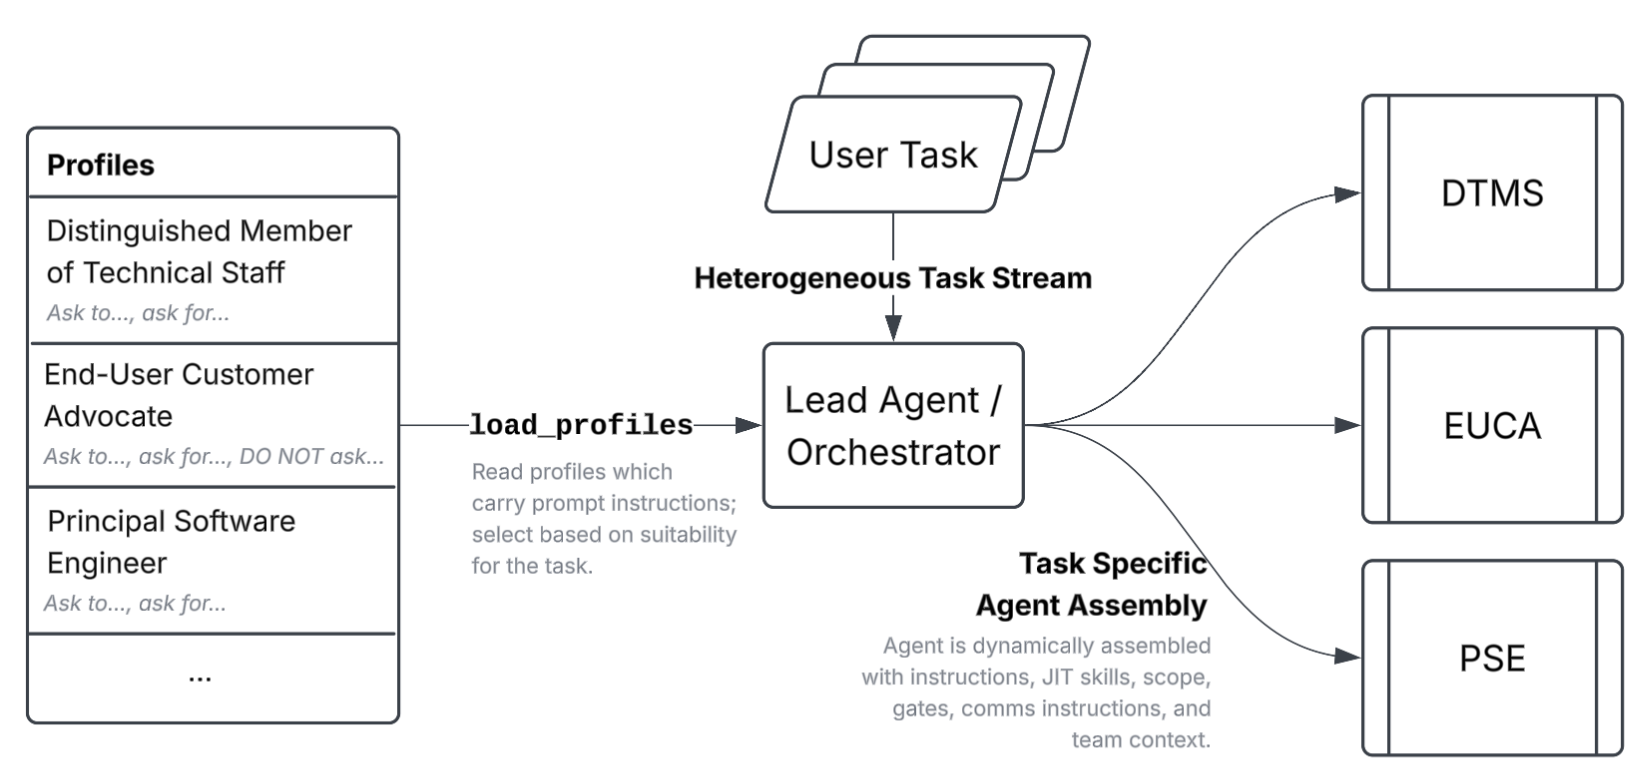
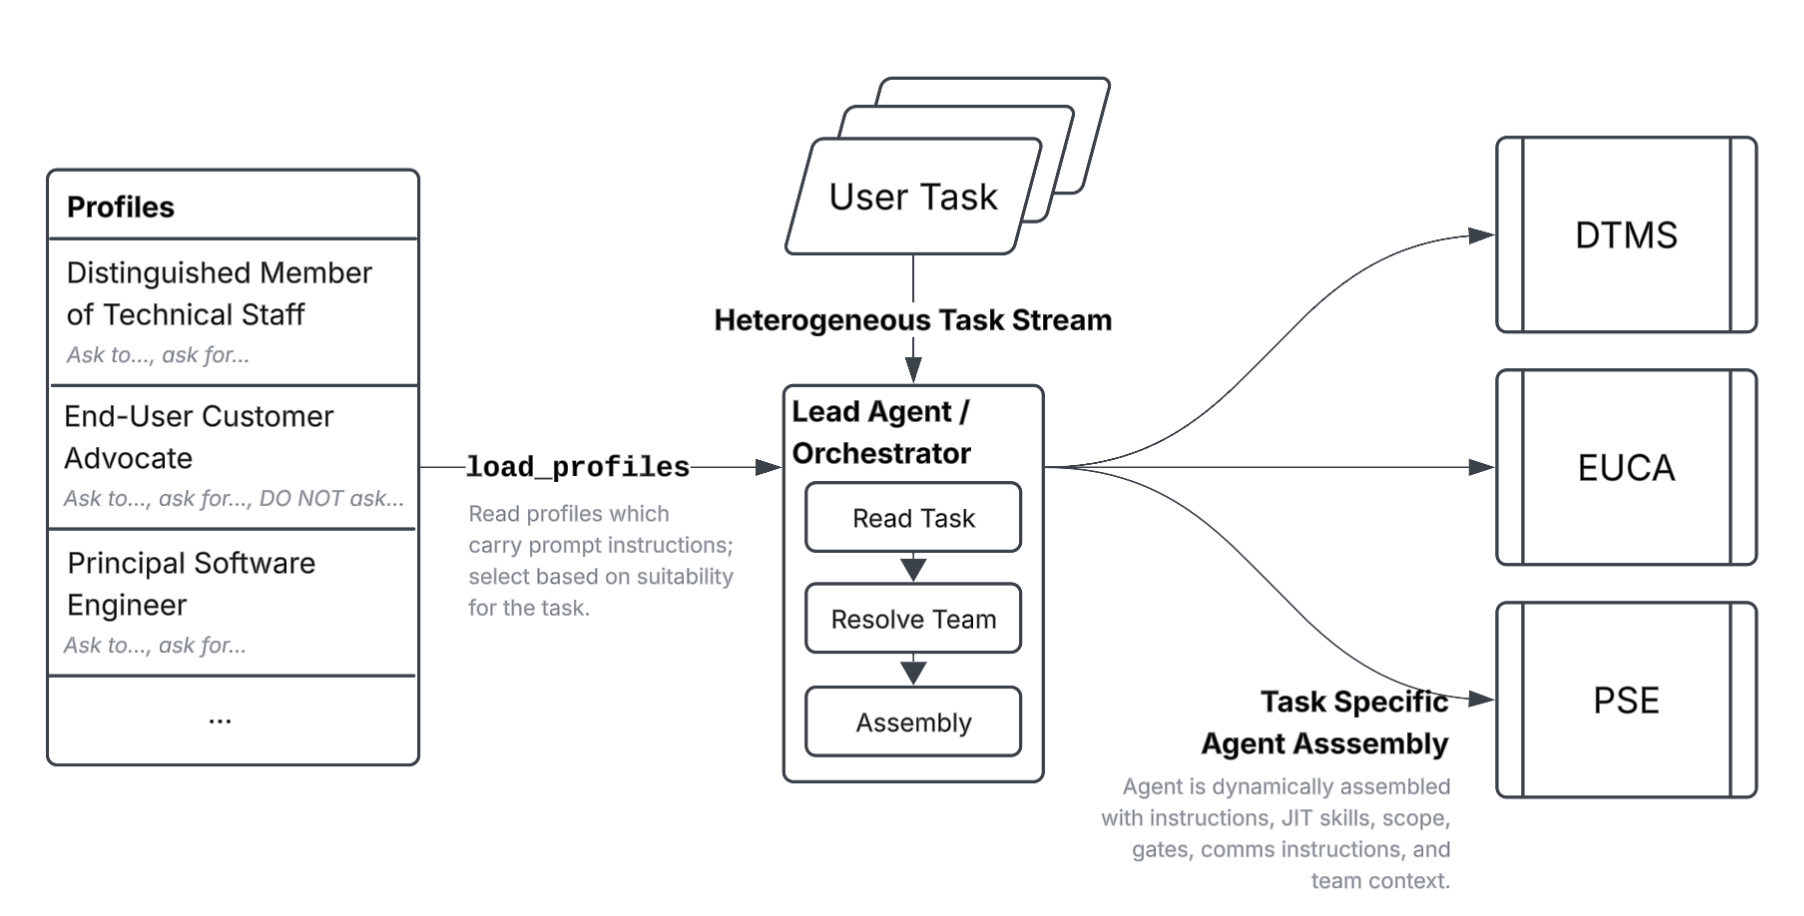
Job preservation

diff --git a/src/content/blog/2026/larping-with-agents-and-why-it-works.md b/src/content/blog/2026/larping-with-agents-and-why-it-works.md
@@ -51,9 +51,6 @@ whose notes best match the work.
 
 In practice, a ***lead*** or ***orchestrator*** will use this tool to list out the profiles by first reading the configuration and then matching the work to the `note` for the profile.  Understanding this inversion, *it is then simply a matter of using it to inject instructions into the lead*.
 
-![Understanding the agent profile flow](/public/img/larping/agent-construction.png)
-*The sub-agents are not statically defined; they are dynamically constructed with "just-in-time" skills and instructions specific for the task*
-
 Here is an example of a profile for a "Distinguished Member of Technical Staff":
 
 ```markdown
@@ -67,18 +64,25 @@ Explicitly instruct: DO NOT CODE; only research, ideate, expand solution space,
 provide feedback.
 ```
 
-Take note of the verbiage: these are not instructions for the sub-agent; these are instructions for the *lead agent* to follow when it instantiates the sub-agent dynamically.  When the lead reads the profiles, it will first select the correct set of agents by matching the task to the team.  This profile configuration then causes it to prompt the sub-agent teammate with specific "asks" upon initialization.  Observe the "inverted" nature of this configuration; *instead of setting up the sub-agent with a role, the setup instructs the lead agent on how to dynamically select and prompt the sub-agents*.  This can also include the lead specifically telling the sub-agent to use certain skills for the task, follow specific rules, or use specific tools.
+Take note of the verbiage: these are not instructions for the sub-agent; these are instructions for the *lead agent* to follow when it instantiates the sub-agent dynamically.  When the lead reads the profiles, it will first select the correct set of agents by matching the task to the team.  This profile configuration then causes it to prompt the sub-agent teammate with specific "asks" upon initialization.
+
+![Understanding the agent profile flow](/public/img/larping/agent-construction.png)
+*The sub-agents are not statically defined; they are dynamically constructed with "just-in-time" skills and instructions specific for the task*
+
+Observe the "inverted" nature of this configuration; *instead of setting up the sub-agent with a role, the setup instructs the lead agent on how to dynamically select and prompt the sub-agents*.  This can also include the lead specifically telling the sub-agent to use certain skills for the task, follow specific rules, or use specific tools.
+
+It is also important to note that this is not a static graph of sub-agents with a specific workflow or communication pattern.  Each "team" of agents is dynamically assembled for each task and the lead always decides the communication pattern and can request sub-agents *only* communicate via the lead or let all agents communicate with each other directly.
 
 ### Getting consistent behavior
 
-This is all that is needed to get agentic behavior working with shocking efficacy in Paseo; for very little input, the payoff is sizeable.
+This is all that is needed to get dynamic, multi-agent team behavior working with shocking efficacy in Paseo; for very little input, the payoff is sizeable.
 
 Go ahead and configure a full team of profiles and watch Paseo *just work*:
 
 ![Agent profiles configured in Paseo](/public/img/larping/profiles.png)
 *A subset of my agent profile configuration with different roles and profiles.  Note that some profiles are plan only; I do not use more costly models for code output.*
 
-It turns out that additional tool configuration, skill configuration, directory scoping, and any number of harness bolt-ons are simply not necessary to get an agentic team to actually produce useful work.
+It turns out that additional tool configuration, skill configuration, directory scoping, and any number of harness bolt-ons are simply not necessary to get an agentic team to actually produce useful work.  This is the opposite of configuring specific sub-agent with specific prompts, skills, and tools.
 
 When a lead agent sees the profiles in Paseo, the profile notes act like prompt-injected context (think of it as "dynamic skills") and the lead agent decides exactly how to build and coordinate a team for the task at hand. Complex tasks may recruit 6-8 sub-agents while simple tasks may only create 1-2.
 
@@ -183,7 +187,7 @@ The other factor at play here is that the lead can choose to assign more complex
 
 What I find is that my work capacity in a given token session window is now extended significantly (caveat below with Anthropic platform models).
 
-### Human prompts are simpler
+### Human input becomes simpler
 
 My observation is that *full specs are no longer needed* in this flow to get good results.  Of course, the more intent and direction imparted to the lead, the closer the output is to the objective held in the human mind.  But the mixture of agent roles is overall very effective at figuring out the edges by LARPing as the end user or as the UX expert.
 
@@ -197,9 +201,17 @@ Adherence to guidelines, proper usage of skills and tools, and coding best pract
 
 In this example, the lead gives clear, explicit direction on how the sub-agent needs to work and what it needs to read.  The result is more consistency and better rule following, even with Anthropic models (notorious, IME, for not following guidance).
 
+### A memory system is useful, but you don't need to recalibrate with offline evals
+
+Recalibration and post-alignment of agents makes sense when a team of agents will see the same "shape" of tasks again and again.  The same PDF format, the same set of inputs with different values to process, the same type of spreadsheet.  However, for building software, this is probably not *that* useful since tasks are generally novel with specific high level steps like "run tests before pushing PR".
+
+In this setup, each team of sub-agents is dynamically assembled and scoped specifically to the task.  There is likely not much utility to recalibration unless there is an expectation of seeing the same shape frequently and the shape of the task is sufficiently complex to benefit from being calibrated from prior experience.
+
+Otherwise, memory is perfectly suitable.
+
 ----
 
-## Why This Works
+## Why this works
 
 I have now built multiple projects using this approach and it is plain as day in my usage how this affects autonomy, quality, and token use.  I have my own intuition on why this worked so well, but a recent research paper sheds some light on why this setup delivers results over other approaches that rely on post-task reinforcement/learning.
 
@@ -296,3 +308,4 @@ Give it a shot; you have nothing to lose.  Paseo is free, open source, and doesn
 
 1. <https://arxiv.org/abs/2606.01770>
 2. <https://platform.claude.com/docs/en/build-with-claude/prompt-engineering/claude-prompting-best-practices#give-claude-a-role>
+3. <https://github.com/guregodevo/memdoor/tree/main/examples/workflows/team-solve>

diff --git a/src/content/blog/2026/value-creation-vs-job-preservation.md b/src/content/blog/2026/value-creation-vs-job-preservation.md
@@ -1,0 +1,45 @@
+---
+title: "Value Creation vs Job Preservation"
+description: "Comparing two different ways of work and working environments."
+pubDate: "2026 November 21"
+slug: "2026/11/value-creation-vs-job-preservation"
+tags: "random thoughts"
+---
+
+----
+
+There are two ends of the spectrum of how people look at their work and the type of environment created by leadership: ***job preservation*** on one end and ***value creation*** on the other (in between is "just getting paid").
+
+## Job preservation
+
+I find people and environments that are oriented towards *job preservation* to be *exhausting*.
+
+The people who think like this only do work that aids in preserving their job (including teeing up their next promotion).  They don't just do the things that need to get done; they do it if it helps them preserve their job.
+
+Environments that orient towards job preservation are also exhausting.  A lot of effort goes into proving why your job should be preserved instead of creating value.
+
+When people talk about "politics", this is usually what they mean: job preservation.  People who are very focused on job preservation also tend to bring a lot of *ego* (a big part of job preservation is fluffing yourself up).  It's really draining working with people who are focused on job preservation.
+
+(I've also written a bit about this before as well: *[Beware the Complexity Merchants](https://chrlschn.dev/blog/2025/05/beware-the-complexity-merchants/)*)
+
+People who didn't carry their weight on school projects?  They're probably job-preservationists; they'll do anything to preserve their grade aside from actually doing the work.
+
+## Value creation
+
+On the other end is *value creation*.  For me, this feels energizing; there's a clear reason and a mission.  Working 12x7 doesn't drain me because the line from my work to the value created is so direct.
+
+People that operate in this mode don't ask *"what's in it for me?"*, *"is this billable?"* (except to follow process), *"is it assigned to me?"*. Something of value needs to get done?  They do it because they place value creation above all else.
+
+In an organization that is oriented for value creation, autonomy is easy and natural because the direction towards value is clearly communicated and everyone can see how more value gets created and how their work contributes to that value.  No one has to guess what the right action or the right decision is: it's the one the creates more value.
+
+Brian Chesky's *[Don't Fuck Up the Culture](https://medium.com/@bchesky/dont-fuck-up-the-culture-597cde9ee9d4)* says that "culture is simply a shared way of doing something with passion."  I think a big piece of that is alignment on the value being created.  He follows: "When the culture is strong, you can trust everyone to do the right thing. People can be independent and autonomous."  That works because people understand where the value is being created and what needs to be done.
+
+People and teams that operate in value creation mode can often disagree on how value gets created, but they never let job preservation get in the way.
+
+## When one becomes the other
+
+Both people and companies can oscillate from one to the other (companies more than people, I think).
+
+This is what Thiel meant by "don't fuck up the culture". Don't become a company where teams lose the line of sight to value and focus instead of job preservation.
+
+When a company or team goes from value creation mode to job preservation mode, organizational alignment is lost; everyone is looking out for themselves instead of trying to figure out how they add value to the whole.
